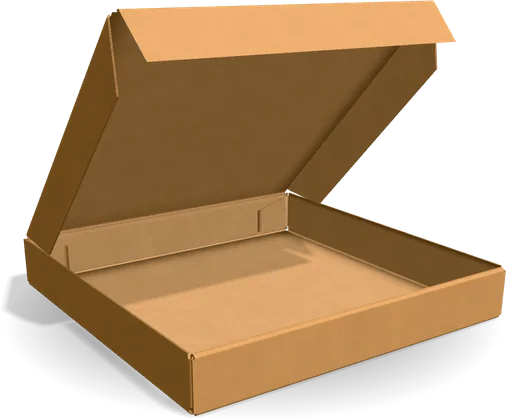
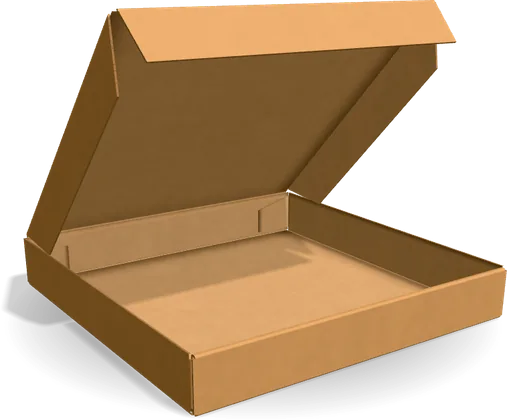
Fold creases tighter so box edges and corners read crisp
Every crease in the 3D model was a strip of board three thicknesses
wide, bent round. On corrugated board that is a 9 mm roll along every
edge, and where two bends meet at a corner each stops short of the
other, leaving a square hole half a bend wide; with the flap slots, the
corners of a closed shipper showed a big gap.

Creases now bend over 2.2 board thicknesses, the tightest that keeps a
wall's inside face clear of its neighbour's at a square fold: edges read
crisp and the corner gaps shrink by a quarter. The width is one named
constant (CREASE_WIDTH); the resting lid setback and the split top's
flap setbacks follow it. The fold audit is unchanged: reverse tuck,
split top and pizza box clean, the straight tuck's one-frame
tuck-over-shoulder contacts as before.

The template thumbnails are re-rendered with the new creases.

Claude-Session: https://claude.ai/code/session_01AosEoHGp9fRkJBNR4UPrD4

diff --git a/src/lib/packaging/fold-sheet.ts b/src/lib/packaging/fold-sheet.ts
@@ -54,21 +54,33 @@ export type Mat4 = number[];
 
 const BEND_SEGMENTS = 6;
 
+/**
+ * How wide each crease's bend is, in board thicknesses. Scored board folds
+ * tight: the bend is a little wider than the board is thick, so corners read
+ * crisp and the gap where two bends meet stays small.
+ */
+export const CREASE_WIDTH = 2.2;
+
+/** Half a crease's bend, in millimetres: the most a setback may move into the child. */
+export function creaseHalfWidth(thickness: number) {
+  return Math.max(0.05, thickness) * CREASE_WIDTH / 2;
+}
+
 
 /**
  * The setback for a lid or flap that closes over the cut edges of the walls
  * it meets and rests on them, rather than cutting into them.
  */
 export function restingSetback(thickness: number) {
-  const t = Math.max(0, thickness);
-  // A plain square fold puts the child's outside 2·3t/π − 1.5t beyond the cut
-  // line; a resting lid needs its inside just clear of that line.
-  return (6 / Math.PI - 1.5) * t - t * 1.05;
+  const t = Math.max(0, thickness), w = CREASE_WIDTH * t;
+  // A plain square fold of a bend w wide puts the child's outside 2w/π − w/2
+  // beyond the cut line; a resting lid needs its inside just clear of that line.
+  return Math.max(-w / 2, (2 / Math.PI - 0.5) * w - t * 1.05);
 }
 
 export function foldSheet(input: FoldSheetInput): Mesh[] {
   const t = Math.max(0.05, input.thickness);
-  const crease = t * 3;
+  const crease = t * CREASE_WIDTH;
   const byId = new Map(input.panels.map(panel => [panel.id, panel]));
   const children = new Map<string, SheetHinge[]>();
   for (const hinge of input.hinges) children.set(hinge.parent, [...(children.get(hinge.parent) ?? []), hinge]);

diff --git a/src/lib/packaging/templates/split-top/renderer.ts b/src/lib/packaging/templates/split-top/renderer.ts
@@ -1,5 +1,5 @@
 import type { Mesh, TemplateMeshBuilder } from '@/lib/packaging/template-mesh';
-import { foldSheet, translation, type SheetHinge, type SheetPanel } from '@/lib/packaging/fold-sheet';
+import { creaseHalfWidth, foldSheet, translation, type SheetHinge, type SheetPanel } from '@/lib/packaging/fold-sheet';
 import { boardThickness, panelName, substage } from '@/lib/packaging/templates/folded-box';
 import { sanitizeSplitTopDimensions, splitTopSheet } from './geometry';
 
@@ -21,7 +21,7 @@ export const buildSplitTopTemplateMeshes: TemplateMeshBuilder = ({ dimensions, f
   const quarter = Math.PI / 2;
   // The outer flaps fold as far out as a score allows (half its width) and
   // the inner flaps one board further in, so the outer pair lies on them.
-  const outerSetback = -1.5 * t, innerSetback = outerSetback + t;
+  const outerSetback = -creaseHalfWidth(t), innerSetback = outerSetback + t;
   // The outer pair of top flaps.
   const outerTop = splitTopHingeSide === 'side_b' ? ['front', 'back'] : ['right', 'left'];
   const name = (end: string, wall: string) => `${end}${wall[0].toUpperCase()}${wall.slice(1)}`;
